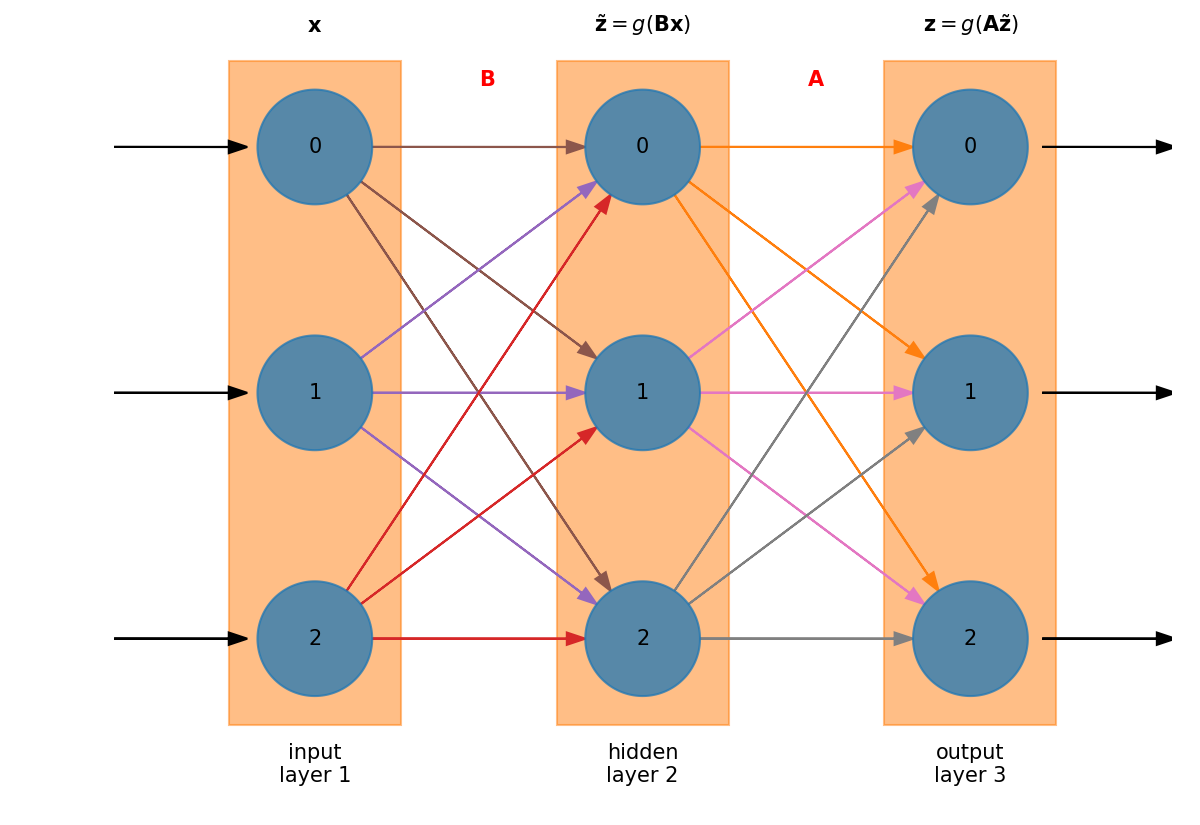
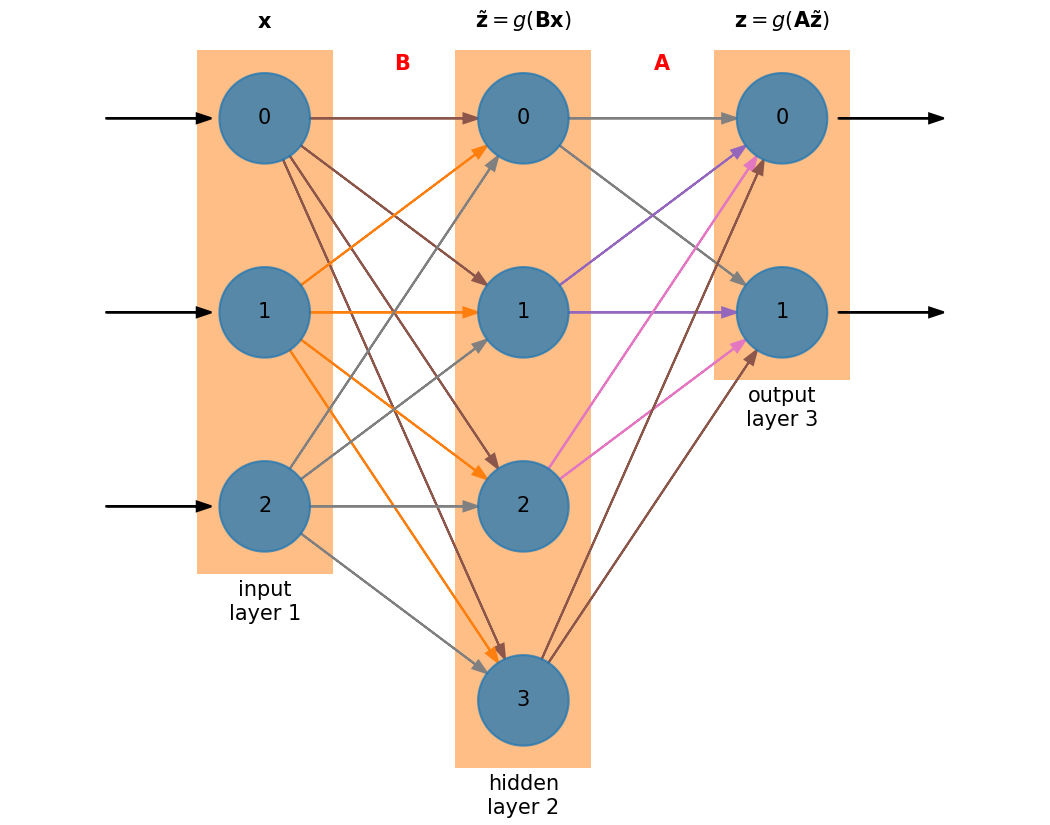
more updates

diff --git a/content/machine-learning/nn_fig.py b/content/machine-learning/nn_fig.py
@@ -1,0 +1,177 @@
+import random
+
+import matplotlib.pyplot as plt
+import numpy as np
+
+
+class Neuron(object):
+    def __init__(self, x, y, R=0.35):
+        self.x = x
+        self.y = y
+        self.R = R
+
+    def draw(self, color="C0", label=None):
+        theta = np.linspace(0, 2*np.pi, 180)
+        xc = self.x + self.R*np.cos(theta)
+        yc = self.y + self.R*np.sin(theta)
+
+        plt.fill(xc, yc, color=color, alpha=0.75)
+
+        if label is not None:
+            plt.text(self.x, self.y, label, color="k", 
+                     horizontalalignment="center", verticalalignment="center")
+
+
+class Layer(object):
+    def __init__(self, x, num_neurons=3, dy=1.0):
+        self.x = x
+        self.dy = dy
+        self.num_neurons = num_neurons
+        self.neurons = []
+
+        for i in range(self.num_neurons):
+            y = -i*self.dy
+            self.neurons.append(Neuron(self.x, y))
+
+    def draw(self, color="C1", label=None, top_label=None):
+        # compute the bounding box
+        ys = [q.y for q in self.neurons]
+
+        ymin = min(ys) - self.neurons[0].R
+        ymax = max(ys) + self.neurons[0].R
+
+        xmin = self.neurons[0].x - self.neurons[0].R
+        xmax = self.neurons[0].x + self.neurons[0].R
+
+        dx = xmax - xmin
+        xmin -= 0.25*dx
+        xmax += 0.25*dx
+        ymin -= 0.25*dx
+        ymax += 0.25*dx
+
+        plt.fill([xmin, xmin, xmax, xmax, xmin],
+                 [ymin, ymax, ymax, ymin, ymin], 
+                 color=color, zorder=-100, alpha=0.5, edgecolor="none")
+
+        for i, n in enumerate(self.neurons):
+            n.draw(label="{}".format(i))
+
+        if label is not None:
+            plt.text(self.x, ymin-0.5*dx, label,
+                     horizontalalignment="center", color="k")
+
+        if top_label is not None:
+            plt.text(self.x, ymax+0.25*dx, top_label,
+                     horizontalalignment="center", color="k")
+
+class NeuralNet(object):
+
+    def __init__(self, dx=2.0, nlayers=2, neurons_in=3, neurons_out=2):
+        self.nlayers = nlayers
+
+        self.layers = []
+        for i in range(self.nlayers):
+            if i == 0:
+                neurons = neurons_in
+            elif i == nlayers-1:
+                neurons = neurons_out
+            else:
+                neurons = int(1.5*neurons_in)
+
+            self.layers.append(Layer(i*dx, num_neurons=neurons, dy=1.5))
+
+    def draw(self):
+        for i, l in enumerate(self.layers):
+            if i == 0:
+                label = "input\nlayer {}".format(i+1)
+                top_label = r"${\bf x}$"
+            elif i == len(self.layers)-1:
+                label = "output\nlayer {}".format(i+1)
+                top_label = r"${\bf z} = g({\bf A}\tilde{\bf z})$"
+            else:
+                label = "hidden\nlayer {}".format(i+1)
+                top_label = r"$\tilde{\bf z} = g({\bf B x})$"
+
+            l.draw(label=label, top_label=top_label)
+
+        colors = ["0.5", "C1", "C2", "C3", "C4", "C5", "C6"]
+
+        # now connect
+        for i in range(0, len(self.layers)-1):
+            for j, n in enumerate(self.layers[i].neurons):
+                x0 = n.x
+                y0 = n.y
+                R0 = n.R
+
+                c = random.choice(colors)
+
+                for q in self.layers[i+1].neurons:
+                    xt = q.x
+                    yt = q.y
+                    Rt = q.R
+
+                    # figure out the angle
+                    theta = np.arctan2(yt-y0, xt-x0)
+                    L = np.sqrt((xt - x0)**2 + (yt - y0)**2) - Rt - R0
+
+                    plt.arrow(x0+R0*np.cos(theta), y0+R0*np.sin(theta), 
+                              L*np.cos(theta), L*np.sin(theta), 
+                              head_width=0.075, zorder=-50, 
+                              color=c,
+                              length_includes_head=True)
+
+            xc = 0.5*(self.layers[i].x + self.layers[i+1].x)
+            yc = self.layers[i].neurons[0].y + 0.25*(self.layers[i].neurons[0].y - self.layers[i].neurons[1].y)
+            if i == 0 and self.nlayers > 2:
+                label = r"${\bf B}$"
+            else:
+                label = r"${\bf A}$"
+
+            plt.text(xc, yc, label, color="r")
+
+        # draw inputs and outputs
+        ls = self.layers[0]
+        xf = ls.neurons[0].x - 1.5*ls.neurons[0].R
+        L = 2.0*ls.neurons[0].R
+
+        for n in ls.neurons:
+            plt.arrow(xf - L, n.y, L, 0, head_width=0.075, color="k")
+
+        ls = self.layers[-1]
+        xf = ls.neurons[0].x + 1.25*ls.neurons[0].R
+        L = 2.0*ls.neurons[0].R
+
+        for n in ls.neurons:
+            plt.arrow(xf, n.y, L, 0, head_width=0.075, color="k")
+
+
+# simple version
+nn = NeuralNet()
+nn.draw()
+
+plt.axis("off")
+ax = plt.gca()
+ax.set_aspect("equal", "datalim")
+
+f = plt.gcf()
+f.set_size_inches(5, 5)
+
+plt.tight_layout()
+plt.savefig("nn_fig.png", dpi=150, bbox_inches="tight")
+
+# hidden layer
+plt.clf()
+
+nn = NeuralNet(nlayers=3)
+nn.draw()
+
+plt.axis("off")
+ax = plt.gca()
+ax.set_aspect("equal", "datalim")
+
+f = plt.gcf()
+f.set_size_inches(7, 5.5)
+plt.tight_layout()
+plt.savefig("nn_fig_hidden.png", dpi=150)
+
+# add some labels
